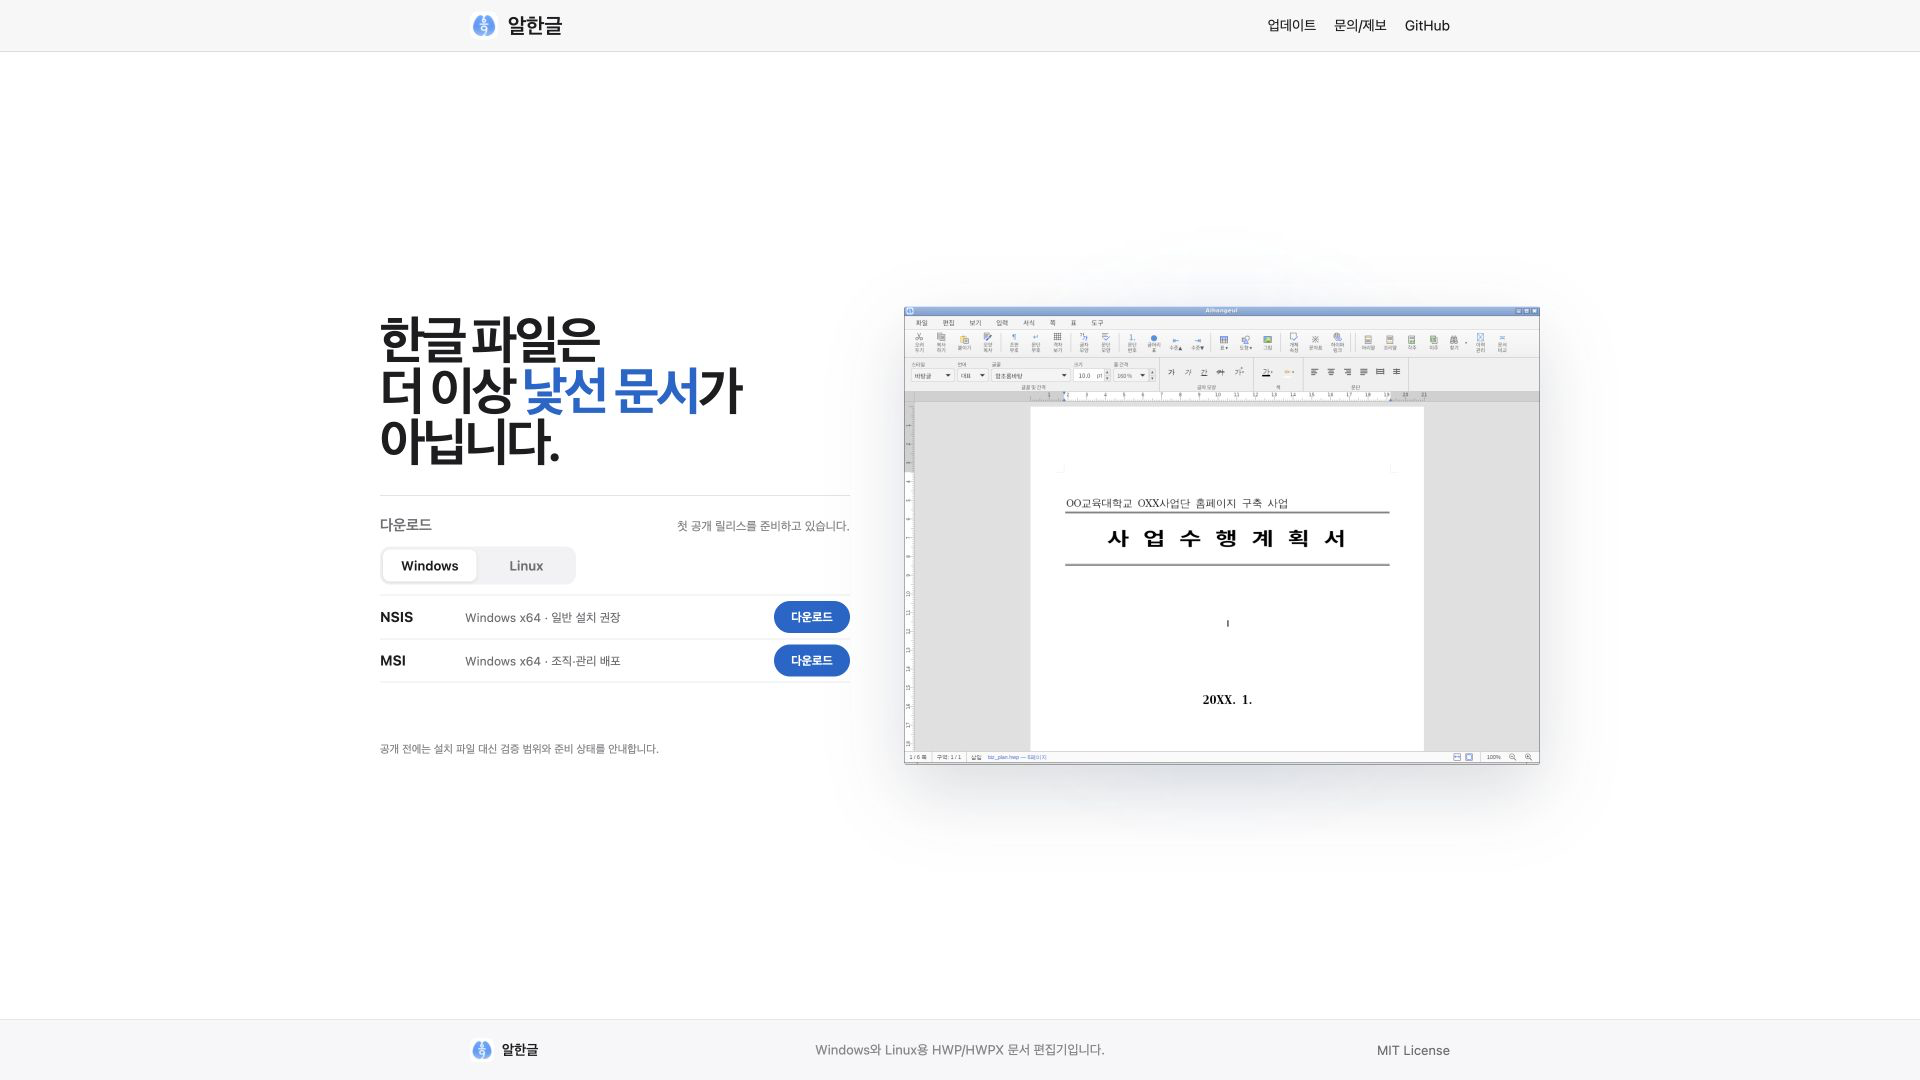
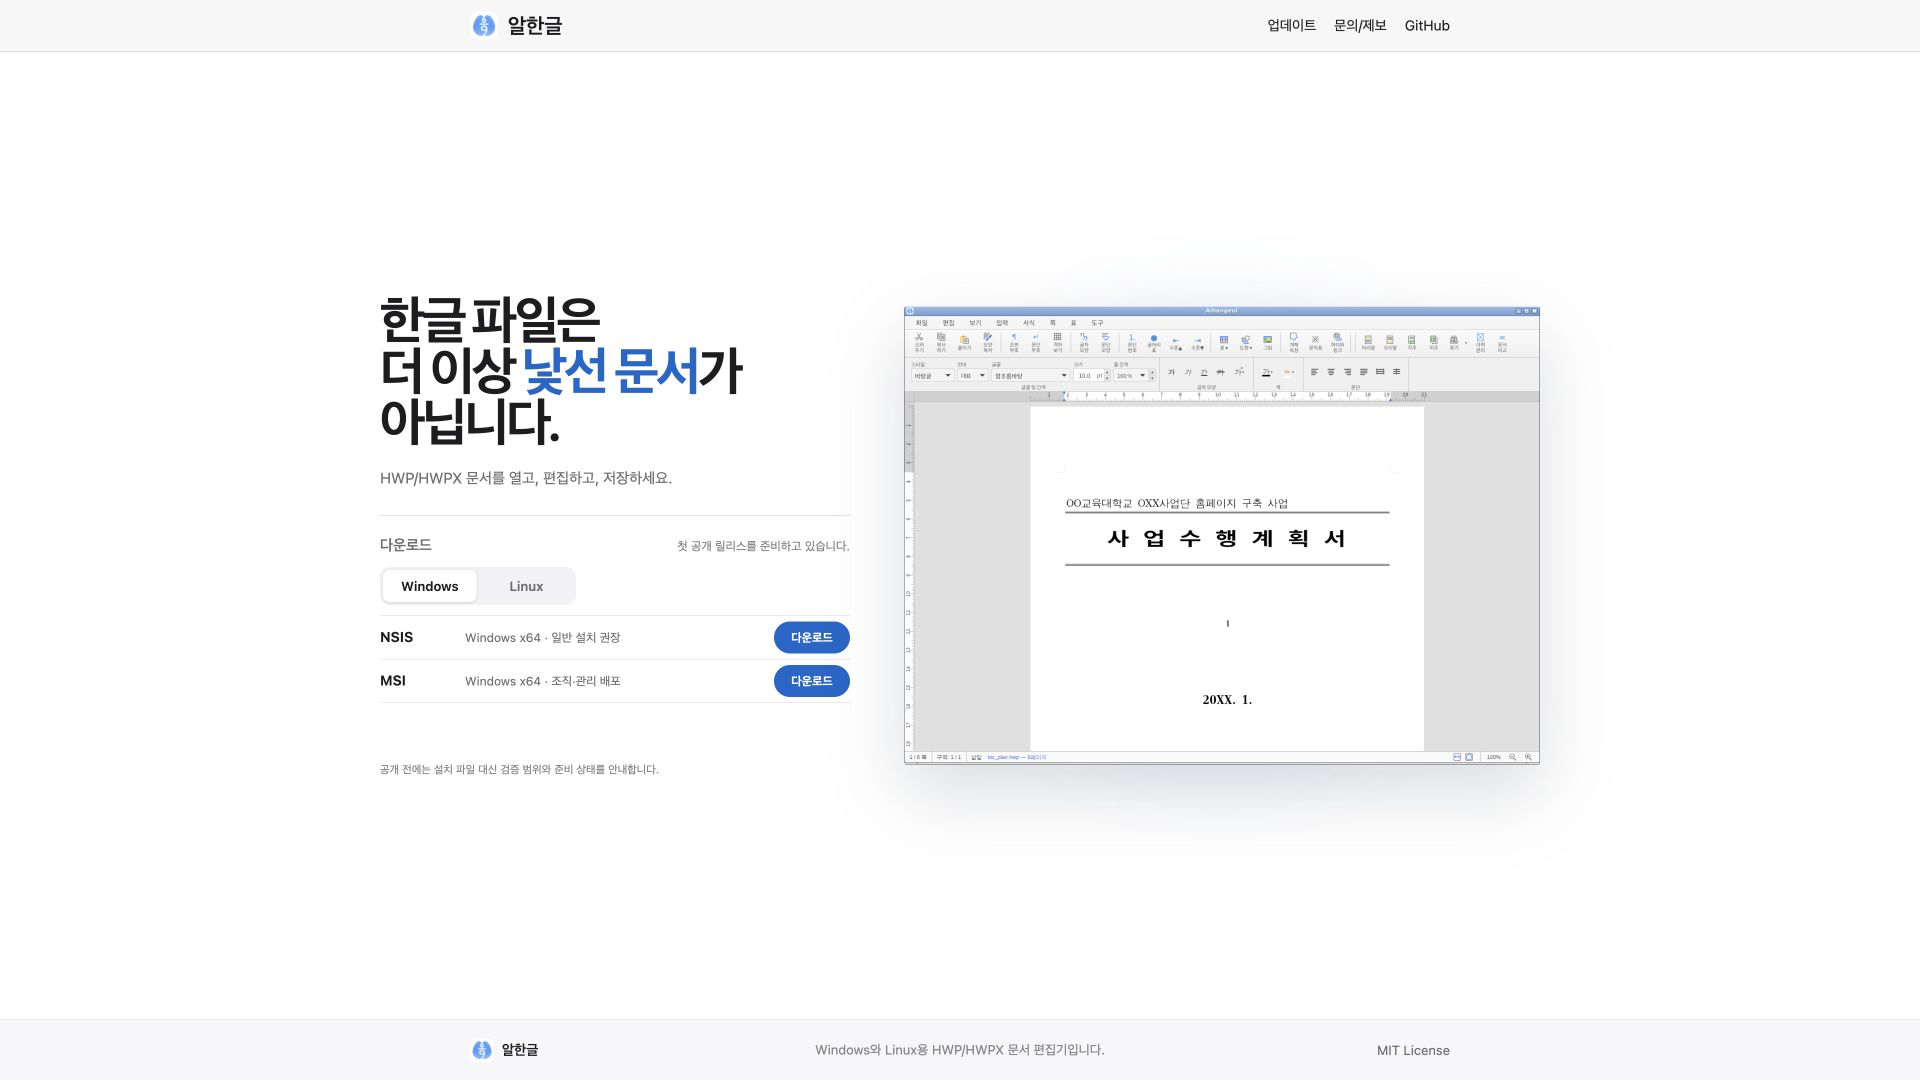
Task #45 [Stage 3.17]: hero 문장과 다운로드 클릭 범위 보정

diff --git a/site/index.html b/site/index.html
@@ -16,7 +16,7 @@
         <meta name="twitter:card" content="summary_large_image" />
         <link rel="canonical" href="https://postmelee.github.io/alhangeul-tauri/" />
         <link rel="icon" href="../assets/logo/favicon.ico" />
-        <link rel="stylesheet" href="styles.css?v=45-3-16" />
+        <link rel="stylesheet" href="styles.css?v=45-3-17" />
         <script src="script.js" defer></script>
     </head>
     <body class="home-page" data-site-root="./">
@@ -43,6 +43,7 @@
                         <span class="headline-line">더 이상 <em>낯선 문서</em>가</span>
                         <span class="headline-line">아닙니다.</span>
                     </h1>
+                    <p class="home-summary">HWP/HWPX 문서를 열고, 편집하고, 저장하세요.</p>
                     <section class="install-panel" aria-labelledby="install-title">
                         <div class="install-heading">
                             <h2 id="install-title">다운로드</h2>
@@ -60,16 +61,16 @@
                                 <section class="download-platform-panel windows-panel" aria-labelledby="windows-package-title">
                                     <h3 class="visually-hidden" id="windows-package-title">Windows 다운로드</h3>
                                     <div class="download-package-list">
-                                        <a class="download-package-option" href="updates/#latest-download" data-download-target="windows-x86_64-nsis"><span class="download-package-copy"><strong>NSIS</strong><span>Windows x64 · 일반 설치 권장</span></span><span class="download-package-action" data-download-state="home">다운로드</span></a>
-                                        <a class="download-package-option" href="updates/#latest-download" data-download-target="windows-x86_64-msi"><span class="download-package-copy"><strong>MSI</strong><span>Windows x64 · 조직·관리 배포</span></span><span class="download-package-action" data-download-state="home">다운로드</span></a>
+                                        <div class="download-package-option"><span class="download-package-copy"><strong>NSIS</strong><span>Windows x64 · 일반 설치 권장</span></span><a class="download-package-action" href="updates/#latest-download" data-download-target="windows-x86_64-nsis"><span data-download-state="home">다운로드</span></a></div>
+                                        <div class="download-package-option"><span class="download-package-copy"><strong>MSI</strong><span>Windows x64 · 조직·관리 배포</span></span><a class="download-package-action" href="updates/#latest-download" data-download-target="windows-x86_64-msi"><span data-download-state="home">다운로드</span></a></div>
                                     </div>
                                 </section>
                                 <section class="download-platform-panel linux-panel" aria-labelledby="linux-package-title">
                                     <h3 class="visually-hidden" id="linux-package-title">Linux 다운로드</h3>
                                     <div class="download-package-list">
-                                        <a class="download-package-option" href="updates/#latest-download" data-download-target="linux-x86_64-appimage"><span class="download-package-copy"><strong>AppImage</strong><span>Linux x64 · 자동 업데이트 권장</span></span><span class="download-package-action" data-download-state="home">다운로드</span></a>
-                                        <a class="download-package-option" href="updates/#latest-download"><span class="download-package-copy"><strong>DEB/RPM</strong><span>Linux x64 · 배포판 패키지</span></span><span class="download-package-action" data-download-state="home">다운로드</span></a>
-                                        <a class="download-package-option" href="updates/#latest-download"><span class="download-package-copy"><strong>DEB</strong><span>Linux arm64 · 수동 설치</span></span><span class="download-package-action" data-download-state="home">다운로드</span></a>
+                                        <div class="download-package-option"><span class="download-package-copy"><strong>AppImage</strong><span>Linux x64 · 자동 업데이트 권장</span></span><a class="download-package-action" href="updates/#latest-download" data-download-target="linux-x86_64-appimage"><span data-download-state="home">다운로드</span></a></div>
+                                        <div class="download-package-option"><span class="download-package-copy"><strong>DEB/RPM</strong><span>Linux x64 · 배포판 패키지</span></span><a class="download-package-action" href="updates/#latest-download"><span data-download-state="home">다운로드</span></a></div>
+                                        <div class="download-package-option"><span class="download-package-copy"><strong>DEB</strong><span>Linux arm64 · 수동 설치</span></span><a class="download-package-action" href="updates/#latest-download"><span data-download-state="home">다운로드</span></a></div>
                                     </div>
                                 </section>
                             </div>

diff --git a/site/styles.css b/site/styles.css
@@ -42,7 +42,8 @@ button { font: inherit; }
 .home-copy h1 { margin: 0; font-size: clamp(2.65rem, 3.8vw, 3.25rem); font-weight: 650; line-height: 0.98; letter-spacing: -0.055em; }
 .headline-line { display: block; white-space: nowrap; }
 .home-copy h1 em { display: inline-block; color: var(--blue); font-style: normal; white-space: nowrap; }
-.install-panel { margin-top: 28px; padding-top: 19px; border-top: 1px solid var(--line); }
+.home-summary { max-width: 560px; margin: 20px 0 0; color: var(--muted); font-size: 15px; font-weight: 400; line-height: 1.55; }
+.install-panel { margin-top: 25px; padding-top: 19px; border-top: 1px solid var(--line); }
 .install-heading { display: flex; align-items: baseline; justify-content: space-between; gap: 16px; }
 .install-heading h2 { margin: 0; color: var(--muted); font-size: 15px; font-weight: 600; line-height: 1.3; }
 .install-heading p { margin: 0; color: var(--subtle); font-size: 12px; font-weight: 400; line-height: 1.4; }
@@ -56,13 +57,13 @@ button { font: inherit; }
 .download-platform-panel { display: none; }
 #download-platform-windows:checked ~ .download-platform-panels .windows-panel, #download-platform-linux:checked ~ .download-platform-panels .linux-panel { display: grid; }
 .download-package-list { display: grid; }
-.download-package-option { display: grid; min-height: 44px; grid-template-columns: minmax(0, 1fr) auto; align-items: center; gap: 16px; padding: 5px 0; border-top: 1px solid rgba(29, 29, 31, 0.09); color: var(--ink); text-decoration: none; }
+.download-package-option { display: grid; min-height: 44px; grid-template-columns: minmax(0, 1fr) auto; align-items: center; gap: 16px; padding: 5px 0; border-top: 1px solid rgba(29, 29, 31, 0.09); color: var(--ink); }
 .download-package-option:last-child { border-bottom: 1px solid rgba(29, 29, 31, 0.09); }
 .download-package-copy { display: grid; min-width: 0; grid-template-columns: 76px minmax(0, 1fr); align-items: baseline; gap: 9px; }
 .download-package-copy strong { font-size: 14px; font-weight: 650; line-height: 1.3; }
 .download-package-copy > span { overflow: hidden; color: var(--muted); font-size: 12px; font-weight: 400; line-height: 1.4; text-overflow: ellipsis; white-space: nowrap; }
-.download-package-action { display: inline-flex; min-width: 76px; min-height: 32px; align-items: center; justify-content: center; padding: 0 14px; border-radius: 999px; background: var(--blue); color: white; font-size: 12px; font-weight: 650; line-height: 1; white-space: nowrap; transition: background var(--quick) var(--ease), box-shadow var(--quick) var(--ease), transform 120ms var(--ease); }
-.download-package-option:hover .download-package-action { background: var(--blue-dark); box-shadow: 0 4px 10px rgba(0, 72, 145, 0.14); transform: translateY(-1px); }
+.download-package-action { display: inline-flex; min-width: 76px; min-height: 32px; align-items: center; justify-content: center; padding: 0 14px; border-radius: 999px; background: var(--blue); color: white; font-size: 12px; font-weight: 650; line-height: 1; text-decoration: none; white-space: nowrap; transition: background var(--quick) var(--ease), box-shadow var(--quick) var(--ease), transform 120ms var(--ease); }
+.download-package-action:hover { background: var(--blue-dark); box-shadow: 0 4px 10px rgba(0, 72, 145, 0.14); transform: translateY(-1px); }
 .install-note { margin: 8px 0 0; color: var(--subtle); font-size: 11px; font-weight: 400; line-height: 1.4; }
 .home-product { position: relative; display: flex; min-width: 0; height: min(650px, 76vh); align-items: center; justify-content: center; margin: 0; }
 .product-glow { position: absolute; inset: 8% 0; border-radius: 50%; background: radial-gradient(circle, rgba(0, 102, 204, 0.18), transparent 68%); filter: blur(28px); }
@@ -131,6 +132,7 @@ a.download-option:hover { background: var(--blue-soft); }
     .home-main { min-height: 0; padding: 25px 14px; }
     .home-shell { display: block; width: min(520px, 100%); }
     .home-copy h1 { font-size: clamp(2rem, 8.7vw, 2.55rem); }
+    .home-summary { margin-top: 14px; font-size: 14px; }
     .install-panel { margin-top: 18px; padding-top: 15px; }
     .install-heading { display: block; }
     .install-heading p { margin-top: 5px; }
@@ -161,6 +163,7 @@ a.download-option:hover { background: var(--blue-soft); }
 @media (max-height: 799px) and (min-width: 821px) {
     .home-main { padding: 16px 20px; }
     .home-copy h1 { font-size: clamp(2.5rem, 3.5vw, 3rem); }
+    .home-summary { margin-top: 14px; line-height: 1.5; }
     .install-panel { margin-top: 16px; padding-top: 14px; }
     .download-platform-picker { margin-top: 9px; }
     .download-platform-panels { min-height: 130px; margin-top: 7px; }

diff --git a/site/feedback/index.html b/site/feedback/index.html
@@ -10,7 +10,7 @@
         <meta property="og:image" content="https://postmelee.github.io/alhangeul-tauri/assets/og-main.png" />
         <link rel="canonical" href="https://postmelee.github.io/alhangeul-tauri/feedback/" />
         <link rel="icon" href="../../assets/logo/favicon.ico" />
-        <link rel="stylesheet" href="../styles.css?v=45-3-16" />
+        <link rel="stylesheet" href="../styles.css?v=45-3-17" />
         <script src="../script.js" defer></script>
     </head>
     <body data-site-root="../">

diff --git a/site/updates/index.html b/site/updates/index.html
@@ -10,7 +10,7 @@
         <meta property="og:image" content="https://postmelee.github.io/alhangeul-tauri/assets/og-main.png" />
         <link rel="canonical" href="https://postmelee.github.io/alhangeul-tauri/updates/" />
         <link rel="icon" href="../../assets/logo/favicon.ico" />
-        <link rel="stylesheet" href="../styles.css?v=45-3-16" />
+        <link rel="stylesheet" href="../styles.css?v=45-3-17" />
         <script src="../script.js" defer></script>
     </head>
     <body data-site-root="../">

diff --git a/mydocs/orders/20260828.md b/mydocs/orders/20260828.md
@@ -4,5 +4,5 @@
 
 | Issue | 타스크 | 상태 | 비고 |
 |------|--------|------|------|
-| #45 | Windows/Linux 릴리스·업데이트용 GitHub Pages 재구성 | 진행중 | Stage 3.16 다운로드 행 컴포넌트 통일 완료: 17:24, Stage 4 승인 대기 |
+| #45 | Windows/Linux 릴리스·업데이트용 GitHub Pages 재구성 | 진행중 | Stage 3.17 hero 문장·버튼 클릭 범위 보정 완료: 17:29, Stage 4 승인 대기 |
 | #16 | MSI·NSIS·AppImage updater 도입 | 예정 | #45 URL 계약 확정 뒤 task-start 승인 대기 |
